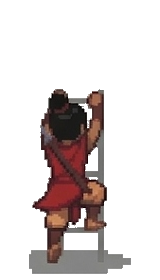
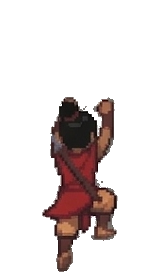
fix: resolve ladder climbing physics, platform transitions, and eliminate sprite ground shadows

Changed region(s): [[0.1562, 0.3143, 0.8438, 1.0]]

diff --git a/js/player.js b/js/player.js
@@ -87,6 +87,7 @@ export class Player {
     this.climbTimer = 0;
     this.climbFrameDuration = 0.11;
     this.climbDir = 'up';
+    this.ladderCooldown = 0; // Cooldown timer after dismounting or jumping off a ladder
   }
 
   loadAnimations() {
@@ -256,84 +257,148 @@ export class Player {
     if (this.coyoteTimer > 0) this.coyoteTimer -= dt;
     if (this.jumpBufferTimer > 0) this.jumpBufferTimer -= dt;
     if (this.invulnerableTimer > 0) this.invulnerableTimer -= dt;
+    if (this.ladderCooldown > 0) this.ladderCooldown -= dt;
+
+    // Movement Inputs
+    let moveDir = 0;
+    if (Input.isDown('left') || Input.isDown('KeyA') || Input.isDown('ArrowLeft')) moveDir -= 1;
+    if (Input.isDown('right') || Input.isDown('KeyD') || Input.isDown('ArrowRight')) moveDir += 1;
 
     // Check Ladder Climbing (Level 2 Ladders)
     if (level && level.ladders) {
       const isUp = Input.isDown('up') || Input.isDown('KeyW') || Input.isDown('ArrowUp');
       const isDown = Input.isDown('down') || Input.isDown('KeyS') || Input.isDown('ArrowDown');
-      const jumpPressed = Input.isPressed('jump') || Input.isPressed('Space');
+      const spacePressed = Input.isPressed('jump') || Input.isPressed('Space');
 
       let overlappingLadder = null;
       for (const lad of level.ladders) {
-        if (Math.abs(this.x - lad.x) <= 22 && this.y >= lad.y1 - 10 && this.y <= lad.y2 + 20) {
+        if (Math.abs(this.x - lad.x) <= 22 && this.y >= lad.y1 - 6 && this.y <= lad.y2 + 10) {
           overlappingLadder = lad;
           break;
         }
       }
 
-      if (overlappingLadder) {
-        if (!this.isClimbing && (isUp || (isDown && !this.isGrounded))) {
-          this.isClimbing = true;
-          this.currentLadder = overlappingLadder;
-          this.x = overlappingLadder.x;
-          this.vx = 0;
-          this.vy = 0;
-          this.isGrounded = false;
+      // 1. Ladder Mount / Attachment
+      if (!this.isClimbing && overlappingLadder && this.ladderCooldown <= 0) {
+        const atTopLedge = (this.y <= overlappingLadder.y1 + 8);
+        const atBottomLedge = (this.y >= overlappingLadder.y2 - 6);
+
+        if (atTopLedge) {
+          // Standing on top platform: only mount ladder if pressing Down (S)
+          if (isDown) {
+            this.isClimbing = true;
+            this.currentLadder = overlappingLadder;
+            this.x = overlappingLadder.x;
+            this.y = overlappingLadder.y1 + 10;
+            this.vx = 0;
+            this.vy = 0;
+            this.isGrounded = false;
+            this.currentPlatform = null;
+          }
+        } else if (atBottomLedge) {
+          // Standing at bottom: mount ladder if pressing Up (W)
+          if (isUp) {
+            this.isClimbing = true;
+            this.currentLadder = overlappingLadder;
+            this.x = overlappingLadder.x;
+            this.vx = 0;
+            this.vy = 0;
+            this.isGrounded = false;
+            this.currentPlatform = null;
+          }
+        } else {
+          // Airborne or mid-ladder: mount on Up, Down, or midair touch
+          if (isUp || isDown || !this.isGrounded) {
+            this.isClimbing = true;
+            this.currentLadder = overlappingLadder;
+            this.x = overlappingLadder.x;
+            this.vx = 0;
+            this.vy = 0;
+            this.isGrounded = false;
+            this.currentPlatform = null;
+          }
         }
-      } else if (this.isClimbing) {
+      } else if (this.isClimbing && !overlappingLadder) {
         this.isClimbing = false;
         this.currentLadder = null;
       }
 
+      // 2. Ladder Active State
       if (this.isClimbing && this.currentLadder) {
-        if (jumpPressed) {
+        // A. Jump-off Dismount (Space bar)
+        if (spacePressed) {
           this.isClimbing = false;
           this.currentLadder = null;
+          this.ladderCooldown = 0.32;
           this.vy = this.jumpImpulse * 0.85;
-          this.vx = (this.facing === 'left' ? -130 : 130);
-        } else {
+          this.vx = (moveDir !== 0 ? moveDir * 170 : (this.facing === 'left' ? -140 : 140));
+          this.isGrounded = false;
+          this.spawnPoof(6);
+        }
+        // B. Horizontal Sideways Dismount (Pushing A or D without vertical input)
+        else if (moveDir !== 0 && !isUp && !isDown) {
+          this.isClimbing = false;
+          this.currentLadder = null;
+          this.ladderCooldown = 0.28;
+          this.vx = moveDir * 160;
+          this.facing = (moveDir < 0) ? 'left' : 'right';
+          this.isGrounded = false;
+          // Continues down to standard platform movement and collision this frame!
+        }
+        // C. Vertical Ladder Movement
+        else {
           let climbMove = 0;
           if (isUp) climbMove -= 1;
           if (isDown) climbMove += 1;
 
           if (climbMove < 0) {
             this.climbDir = 'up';
-            this.vy = -130;
+            this.vy = -140;
             this.climbTimer += dt;
             if (this.climbTimer >= this.climbFrameDuration) {
               this.climbTimer = 0;
               this.climbFrame = (this.climbFrame + 1) % 6;
             }
+
+            // Top of ladder reached: step cleanly onto top platform
             if (this.y <= this.currentLadder.y1 + 4) {
               this.y = this.currentLadder.y1;
               this.isClimbing = false;
               this.currentLadder = null;
               this.isGrounded = true;
+              this.vy = 0;
+              this.ladderCooldown = 0.35; // Prevents infinite re-grab loop
             }
           } else if (climbMove > 0) {
             this.climbDir = 'down';
-            this.vy = 130;
+            this.vy = 140;
             this.climbTimer += dt;
             if (this.climbTimer >= this.climbFrameDuration) {
               this.climbTimer = 0;
               this.climbFrame = (this.climbFrame + 1) % 6;
             }
+
+            // Bottom of ladder reached: step cleanly onto bottom platform
             if (this.y >= this.currentLadder.y2 - 2) {
               this.y = this.currentLadder.y2;
               this.isClimbing = false;
               this.currentLadder = null;
               this.isGrounded = true;
+              this.vy = 0;
+              this.ladderCooldown = 0.3;
             }
           } else {
             this.vy = 0;
           }
 
-          this.vx = 0;
-          this.y += this.vy * dt;
-          this.x = this.currentLadder.x;
+          if (this.isClimbing) {
+            this.vx = 0;
+            this.y += this.vy * dt;
+            this.x = this.currentLadder.x;
 
-          this.updateParticles(dt);
-          return;
+            this.updateParticles(dt);
+            return;
+          }
         }
       }
     }
@@ -396,7 +461,7 @@ export class Player {
     }
 
     // 3. Horizontal Movement
-    let moveDir = 0;
+    moveDir = 0;
     if (Input.isDown('left') || Input.isDown('KeyA') || Input.isDown('ArrowLeft')) moveDir -= 1;
     if (Input.isDown('right') || Input.isDown('KeyD') || Input.isDown('ArrowRight')) moveDir += 1;
 
@@ -494,15 +559,21 @@ export class Player {
       }
     }
 
-    // 7. Open Chasm Pit Fall & Respawn
-    if (this.y > 434) {
-      this.respawnFromPit();
+    // 7. Pit Fall & Respawn (Level 1: y > 434; Level 2: y > 585)
+    const deathY = (level && level.levelIndex === 2) ? 585 : 434;
+    if (this.y > deathY) {
+      this.respawnFromPit(level);
     }
 
     // 8. Reset Key (R)
     if (Input.isPressed('KeyR') || Input.isPressed('reset')) {
-      this.x = 180;
-      this.y = 368;
+      if (level && level.levelIndex === 2) {
+        this.x = 100;
+        this.y = 325;
+      } else {
+        this.x = 180;
+        this.y = 368;
+      }
       this.vx = 0;
       this.vy = 0;
       this.isGrounded = true;
@@ -519,9 +590,14 @@ export class Player {
     return target;
   }
 
-  respawnFromPit() {
-    this.x = 180;
-    this.y = 368;
+  respawnFromPit(level = null) {
+    if (level && level.levelIndex === 2) {
+      this.x = 100;
+      this.y = 325;
+    } else {
+      this.x = 180;
+      this.y = 368;
+    }
     this.vx = 0;
     this.vy = 0;
     this.isGrounded = true;

diff --git a/js/level2.js b/js/level2.js
@@ -48,8 +48,11 @@ export class Level2 {
 
     // Platforms
     this.platforms = [
-      // 1. Upper Left Balcony (x=40..170, y=145)
-      { id: 'top_left', x1: 40, x2: 170, y: 145, oneWay: true },
+      // 1. Upper Left Balcony (x=40..245, y=145)
+      { id: 'top_left', x1: 40, x2: 245, y: 145, oneWay: true },
+
+      // 1b. Sand Dune Ledge below Upper Left Ladder (x=150..245, y=255)
+      { id: 'sand_dune', x1: 150, x2: 245, y: 255, oneWay: true },
 
       // 2. Sand Dune & Middle Left Platform (x=40..460, y=325)
       { id: 'middle_left', x1: 40, x2: 460, y: 325, oneWay: false },
@@ -63,8 +66,8 @@ export class Level2 {
       // 5. Upper Right Stone Balcony (x=700..950, y=175)
       { id: 'top_right', x1: 700, x2: 950, y: 175, oneWay: true },
 
-      // 6. Bottom Left Cave Floor (x=40..280, y=535)
-      { id: 'cave_floor', x1: 40, x2: 280, y: 535, oneWay: false },
+      // 6. Bottom Left Cave Floor (x=40..440, y=535)
+      { id: 'cave_floor', x1: 40, x2: 440, y: 535, oneWay: false },
 
       // 7. Bottom Right Floor (x=630..1024, y=515)
       { id: 'floor_lower_right', x1: 630, x2: 1024, y: 515, oneWay: false },
@@ -79,9 +82,9 @@ export class Level2 {
     // Ladders (x position, top y, bottom y)
     this.ladders = [
       // Ladder 1: Top Left down towards Sand Dune
-      { id: 'ladder_left', x: 205, y1: 145, y2: 250, width: 26 },
+      { id: 'ladder_left', x: 205, y1: 145, y2: 255, width: 26 },
       // Ladder 2: Middle platform down into Cave
-      { id: 'ladder_cave', x: 360, y1: 325, y2: 495, width: 26 },
+      { id: 'ladder_cave', x: 360, y1: 325, y2: 535, width: 26 },
       // Ladder 3: Middle platform up to Upper Right Balcony
       { id: 'ladder_right', x: 765, y1: 175, y2: 325, width: 26 }
     ];
